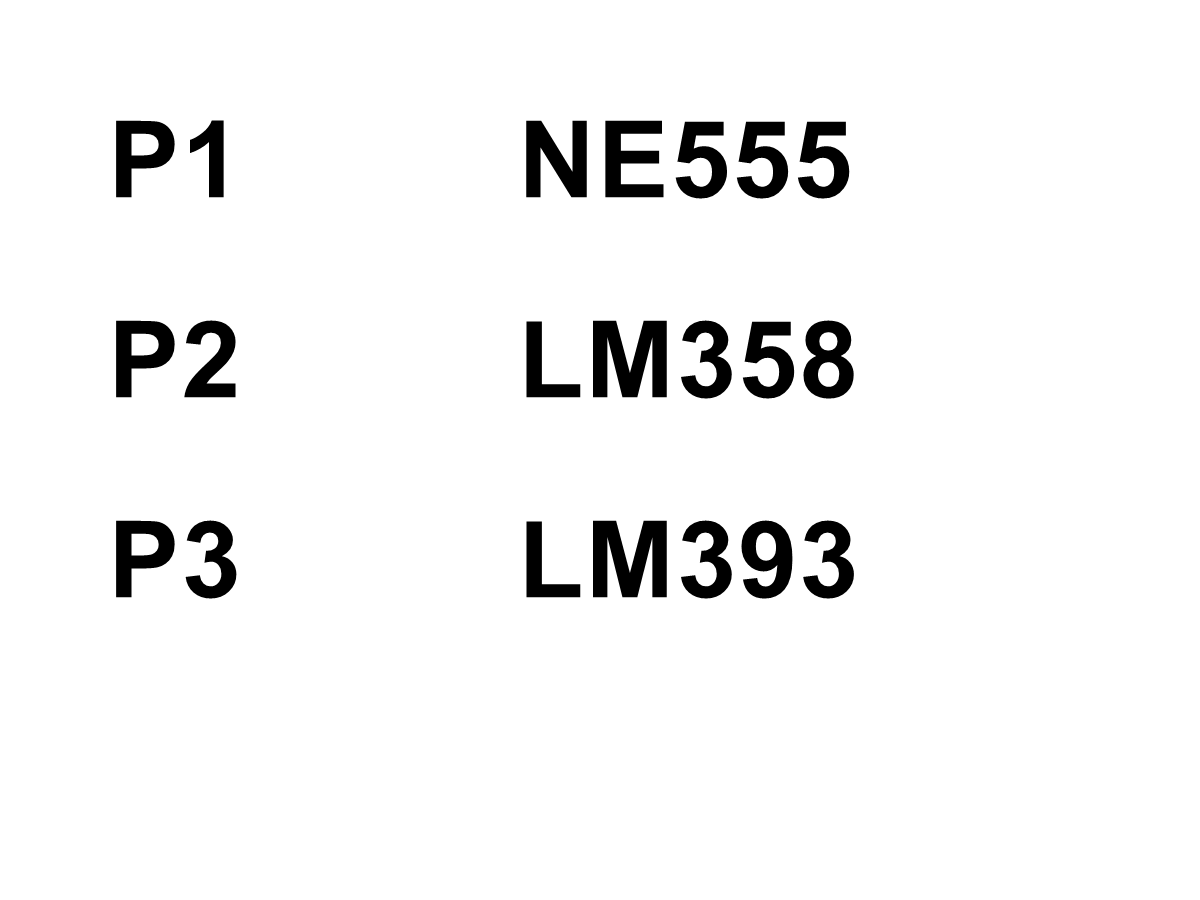
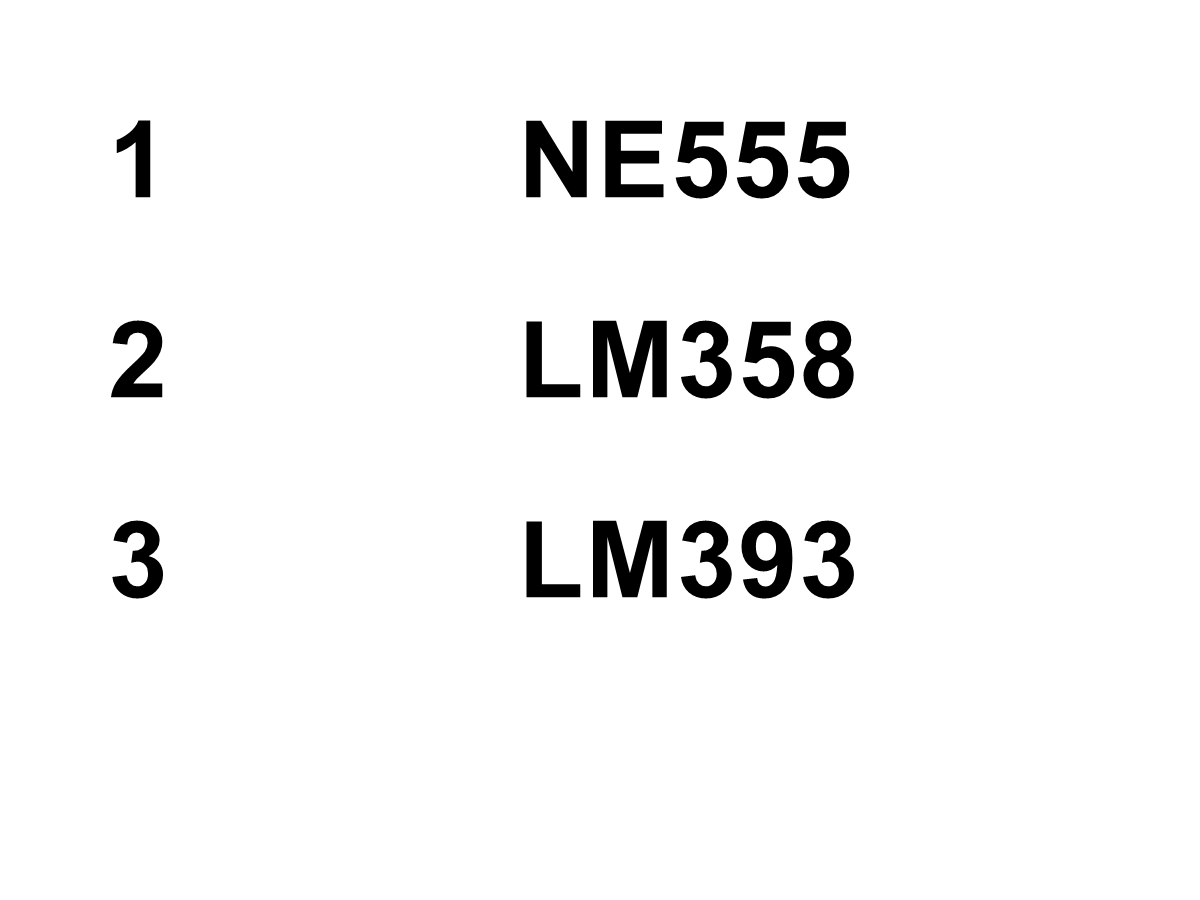
fix: parser rejected the team's real BOM position format (bare digits, not P1)
Root cause of "even the written text for the blueprint fails": found
Breadboard_Bill_of_Materials.pdf in the user's own files -- the actual
verified spec document for BB-01 Assembly A. Its POSITION column uses bare
digits (1, 2, 3, 4), not "P1" style. parser.dart's _positionPattern was
^P\d+$, so it rejected every row of the real document regardless of photo
quality, lighting, or crop -- this was never an OCR/image problem.

Fix: _positionPattern is now ^P?\d+$ (P optional), purely additive -- every
existing "P1"-style test still passes. New tests replay the BOM's exact
table structure (position/component/description columns) through
parseBlocks(), confirming bare digits parse and the description column is
correctly ignored as noise rather than merged into the component.

Also: the AI-generated "realistic" breadboard photo shows NE555P/LM358P/
LM393N chips, but the real BOM's position 2 calls for a 7805 voltage
regulator -- a 3-pin TO-220 part, nothing like these 8-pin DIP chips.
Relabelling that photo "7805" would visually contradict itself. Kept that
demo set honest (its own real part numbers, documented as illustrative, not
the official BOM) and regenerated the primary demo_spec_A /
demo_assembly_A_match / demo_assembly_B_tampered set to exactly match the
real BOM's positions and components, with the tamper scenario now using the
BOM's actual spare slot (position 4) for the "unexpected" case.

Fixed the on-device capture-screen hint text, which only showed a "P1:
[…]

Changed region(s): [[0.0925, 0.3422, 0.2158, 0.4667], [0.0925, 0.56, 0.2158, 0.6844], [0.0925, 0.1244, 0.185, 0.2178]]

diff --git a/test/parser_test.dart b/test/parser_test.dart
@@ -217,4 +217,78 @@ void main() {
       }
     });
   });
+
+  group('bare-digit positions (the team\'s actual verified BOM format)', () {
+    // Breadboard_Bill_of_Materials.pdf's POSITION column reads "1", "2", "3",
+    // "4" -- not "P1" style. The parser used to reject every one of these,
+    // regardless of photo quality, sending the whole document to
+    // unparsedRows. This is that exact document's text, replayed as OCR
+    // blocks would deliver it: position, component, then a third
+    // DESCRIPTION-column block that must be ignored, not appended.
+    test('a bare digit is accepted as a position', () {
+      final result = parseBlocks([
+        block('1', 60, 100),
+        block('NE555', 200, 100),
+      ]);
+      expect(result.items.single.position, '1');
+      expect(result.unparsedRows, isEmpty);
+    });
+
+    test(
+      'the real BOM table parses correctly, including the DESCRIPTION column as noise',
+      () {
+        final result = parseBlocks([
+          block('1', 60, 100),
+          block('NE555', 200, 100),
+          block('Timer IC', 400, 100, width: 160),
+          block('2', 60, 260),
+          block('7805', 200, 260),
+          block('Voltage Regulator', 400, 260, width: 260),
+          block('3', 60, 420),
+          block('LM358', 200, 420),
+          block('Dual Op-Amp', 400, 420, width: 200),
+        ]);
+        expect(result.unparsedRows, isEmpty);
+        expect(
+          result.items.map((i) => '${i.position}:${i.component}').toList(),
+          ['1:NE555', '2:7805', '3:LM358'],
+        );
+        expect(result.ignoredNoise, [
+          'Timer IC',
+          'Voltage Regulator',
+          'Dual Op-Amp',
+        ]);
+      },
+    );
+
+    test(
+      '"P1" style still works -- the fix is additive, not a breaking change',
+      () {
+        final result = parseBlocks([
+          block('P1', 60, 100),
+          block('NE555', 200, 100),
+        ]);
+        expect(result.items.single.position, 'P1');
+      },
+    );
+
+    test(
+      'a bare-digit spec matches a bare-digit assembly reading the same board',
+      () {
+        final spec = parseBlocks([
+          block('1', 60, 100),
+          block('NE555', 200, 100),
+          block('2', 60, 260),
+          block('7805', 200, 260),
+        ]).items;
+        final assembly = parseBlocks([
+          block('1', 60, 100),
+          block('NE555', 200, 100),
+          block('2', 60, 260),
+          block('7805', 200, 260),
+        ]).items;
+        expect(compare(spec, assembly).isMatch, isTrue);
+      },
+    );
+  });
 }

diff --git a/lib/logic/parser.dart b/lib/logic/parser.dart
@@ -9,8 +9,13 @@ import 'ocr.dart';
 ///
 /// Pure and deterministic — no model, no network, no I/O.
 
-/// A position label the parser accepts, e.g. "P1" or "P12".
-final RegExp _positionPattern = RegExp(r'^P\d+$');
+/// A position label the parser accepts: an optional "P" prefix, then digits.
+/// Matches both "P1" (PRD section 17's example) and a bare "1" — the team's
+/// actual verified Bill of Materials (Breadboard_Bill_of_Materials.pdf) uses
+/// bare numbers in its POSITION column, not "P1" style, and the parser used
+/// to reject every one of them, sending the whole document to unparsedRows
+/// regardless of photo quality or crop.
+final RegExp _positionPattern = RegExp(r'^P?\d+$');
 
 /// Trailing punctuation OCR commonly appends to a label, e.g. "P1:" or "P1.".
 final RegExp _trailingPunctuation = RegExp(r'[:.,;\-–—]+$');

diff --git a/lib/screens/capture_screen.dart b/lib/screens/capture_screen.dart
@@ -221,7 +221,7 @@ class _CaptureScreenState extends State<CaptureScreen> {
                   _stage == _Stage.cropping
                       ? 'Trim the frame to just the labels, then scan'
                       : (isSpec
-                            ? 'Position labels clearly in frame (e.g. P1: NE555)'
+                            ? 'Position labels clearly in frame (e.g. "1  NE555" or "P1: NE555")'
                             : 'Ensure all components are visible'),
                   style: const TextStyle(fontSize: 12, color: Colors.grey),
                   textAlign: TextAlign.center,

diff --git a/demo_assets/README.md b/demo_assets/README.md
@@ -3,22 +3,33 @@
 **Do not download a random image off Google for this.** A web photo of a
 breadboard carries a watermark, an arbitrary font, JPEG compression noise, and
 someone else's lighting — every one of those hurts OCR consistency, and you'd
-be rehearsing against an input you can't reproduce twice. These three PNGs are
-generated locally with a known, exact correct answer, so you can rehearse the
-same result over and over and trust it on stage.
+be rehearsing against an input you can't reproduce twice. These are generated
+locally with a known, exact correct answer, so you can rehearse the same
+result over and over and trust it on stage.
+
+## Position format — read this first
+
+The parser accepts **both** `P1` style and a **bare digit** like `1`. Your
+actual verified spec document, `Breadboard_Bill_of_Materials.pdf`, uses bare
+digits in its POSITION column (`1`, `2`, `3`, `4`) — not `P1`. The parser used
+to reject every bare-digit label, which is why OCR failed even on printed,
+perfectly legible text: it wasn't a photo-quality problem, the position format
+just didn't match what the code expected. Fixed in `lib/logic/parser.dart`
+and pinned down in `test/parser_test.dart`'s "bare-digit positions" group and
+`test/demo_realistic_scenario_test.dart`.
 
 ## What's here
 
 | File | Use as | Content |
 |---|---|---|
-| `demo_spec_A.png` | Specification | P1 NE555, P2 7805, P3 LM358, P4 CD4017 |
+| `demo_spec_A.png` | Specification | **Matches the real BOM exactly**: 1 NE555, 2 7805, 3 LM358 |
 | `demo_assembly_A_match.png` | Assembly (clean run) | identical to spec — proves the MATCH state |
-| `demo_assembly_B_tampered.png` | Assembly (tamper run) | P2 swapped, P3 removed, P5 added |
-| `demo_spec_realistic.png` | Specification | P1 NE555, P2 LM358, P3 LM393 |
-| `demo_assembly_realistic_match.png` | Assembly (clean run) | a real-looking AI-generated breadboard photo + a P1/P2/P3 label panel underneath — proves MATCH with a photo that actually looks like hardware |
-| `demo_assembly_realistic_tampered.png` | Assembly (tamper run) | same photo, P2 mismatched, P3 row omitted |
+| `demo_assembly_B_tampered.png` | Assembly (tamper run) | 2 mismatched, 3 removed, 4 (the BOM's real spare slot) populated without authorisation |
+| `demo_spec_realistic.png` | Specification | 1 NE555, 2 LM358, 3 LM393 — **illustrative only, see note below** |
+| `demo_assembly_realistic_match.png` | Assembly (clean run) | a real-looking AI-generated breadboard photo + a label panel underneath |
+| `demo_assembly_realistic_tampered.png` | Assembly (tamper run) | same photo, 2 mismatched, 3 row omitted |
 
-Regenerate the A/B set with:
+Regenerate the A/B set (the BOM-accurate one) with:
 ```powershell
 powershell -File demo_assets\generate_demo_screens.ps1
 ```
@@ -28,21 +39,32 @@ the script) with:
 powershell -File demo_assets\overlay_labels_on_breadboard.ps1
 ```
 
+### Important: the "realistic" photo set is NOT the official BOM
+
+The AI-generated breadboard photo shows three chips etched `NE555P`,
+`LM358P`, `LM393N`. Your real BOM's position 2 calls for a **7805 voltage
+regulator** — a 3-pin TO-220 part that looks nothing like these 8-pin DIP
+chips. Labelling that photo "7805" would show text contradicting the picture
+under it to anyone who looks closely, including a judge who knows
+electronics. So the realistic set uses the chips' own real part numbers
+instead, as a "looks like real hardware" rehearsal aid — use **`demo_spec_A`
++ `demo_assembly_A_match`/`_B_tampered`** whenever you need the demo to match
+`Breadboard_Bill_of_Materials.pdf` precisely, which is most of the time.
+
 ### Why the realistic set has a label panel glued below the photo
 
-A user-supplied AI-generated breadboard photo looked great but had **zero
-position labels anywhere** — only each chip's own tiny etched part code
-(`NE555P` / `93M` / `DN1810`, three lines per chip). That reproduced the exact
-"no valid labels found" error, and no amount of cropping could fix it, because
-there was nothing in the frame matching the `P1`/`P2`/`P3` pattern the parser
-requires. Confirmed with `test/demo_realistic_scenario_test.dart`, which
-replays the original photo's actual OCR text through `parseBlocks()` and
-asserts it parses to nothing.
+The original AI photo had **zero position labels anywhere** — only each
+chip's tiny etched part code (`NE555P` / `93M` / `DN1810`, three lines per
+chip). That reproduced the exact "no valid labels found" error, and no amount
+of cropping could fix it, because there was nothing in the frame matching a
+position pattern. Confirmed with `test/demo_realistic_scenario_test.dart`,
+which replays the original photo's actual OCR text through `parseBlocks()`
+and asserts it parses to nothing.
 
 The fix is a clean white label panel appended **below** the photo (not
-overlaid on top of it) with P1/P2/P3 stacked vertically, generous gaps between
-rows, and a wide column gap — the same layout already proven to work in
-`demo_spec_A.png`. (A first attempt placed labels in one horizontal strip
+overlaid on top of it) with positions stacked vertically, generous gaps
+between rows, and a wide column gap — the same layout already proven to work
+in `demo_spec_A.png`. (A first attempt placed labels in one horizontal strip
 across the photo; that risked ML Kit merging all three into one unparseable
 block, since same-row + touching boxes look like one label to OCR. Fixed by
 stacking rows instead.) Also verified in the same test file.
@@ -61,7 +83,7 @@ stacking rows instead.) Also verified in the same test file.
    image, cutting out everything outside it — this also cuts out any screen
    bezel, reflection, or desk visible around the edges. Tap **Scan Selected
    Area**.
-4. Confirm the status line reads "4 text blocks read, 4 row(s) parsed" (or
+4. Confirm the status line reads "3 text blocks read, 3 row(s) parsed" (or
    close — if a row lands in "unparsed", the review screen will show you
    which one, and you can add it manually in two taps).
 5. Tap **Next**, then swap the laptop display to `demo_assembly_A_match.png`
@@ -82,12 +104,12 @@ Expected results, so you know a run went correctly before you're on stage:
 - **Scenario A** (`demo_spec_A` + `demo_assembly_A_match`): **MATCH**, zero
   discrepancies.
 - **Scenario B** (`demo_spec_A` + `demo_assembly_B_tampered`): **3
-  discrepancies** — P2 mismatched (7805 → LM358), P3 missing (LM358), P5
-  unexpected (NE555).
+  discrepancies** — 2 mismatched (7805 → LM358), 3 missing (LM358), 4
+  unexpected (NE555) — a real part turning up in the BOM's real spare slot.
 - **Realistic match** (`demo_spec_realistic` + `demo_assembly_realistic_match`):
   **MATCH**, zero discrepancies.
 - **Realistic tampered** (`demo_spec_realistic` + `demo_assembly_realistic_tampered`):
-  **2 discrepancies** — P2 mismatched (LM358 → NE555), P3 missing (LM393).
+  **2 discrepancies** — 2 mismatched (LM358 → NE555), 3 missing (LM393).
 
 ## Why a laptop screen instead of a printout
 
@@ -100,17 +122,23 @@ screen rather than off to one side.
 If you'd rather have a physical fallback in case the laptop isn't available
 at the pitch table, print the same PNGs at full size (they're already
 1920×1080 — print landscape, fit to page) instead of hand-writing labels;
-that reproduces the same font size and layout on paper.
+that reproduces the same font size and layout on paper. This also means you
+could print `Breadboard_Bill_of_Materials.pdf` itself and photograph that
+directly as the specification — it's already the right shape (position,
+component, description columns) and the parser now reads its bare-digit
+positions correctly.
 
 ## The real assembly demo
 
 These label sheets are a *rehearsal and fallback* tool — they prove the OCR →
 parser → compare → phrase pipeline is solid under controlled input, which is
-what "it gives random values sometimes" was actually about (see the analysis
-in `PROGRESS.md` / chat history: it was two code bugs, not the OCR model).
+what "it gives random/wrong values sometimes" was actually about (see
+`PROGRESS.md`: it was code bugs — a noise-appending bug, then a position
+format mismatch with your own BOM — never the OCR model).
 
 For the live judge-tampers-the-board moment from PRD section 10, print small
-physical label cards in this same style (bold, black on white, ≥1cm tall) and
-tape one at each breadboard position instead of relying on the chip's own
-tiny factory print — that is what PRD section 19 specifies, and it's the
-difference between reliable and unreliable OCR on a real object.
+physical label cards in this same style (bold, black on white, ≥1cm tall,
+bare-digit position) and tape one at each breadboard position instead of
+relying on the chip's own tiny factory print — that is what PRD section 19
+specifies, and it's the difference between reliable and unreliable OCR on a
+real object.

diff --git a/PROGRESS.md b/PROGRESS.md
@@ -597,3 +597,52 @@ with the realistic-set instructions and expected results.
 parser logic with the actual generated coordinates, which is strong evidence,
 but nobody has photographed either the label-panel demo image or a real
 object with the app on the iQOO yet. That remains the top open item.
+
+## Session 5 — the real bug: position format mismatch with the actual BOM
+
+User reported OCR still failing "even on the written text for the blueprint"
+after Session 4's crop/label fixes. Found `Breadboard_Bill_of_Materials.pdf`
+in the user's Downloads — the team's actual verified spec document (BB-01,
+Assembly A). Its POSITION column reads bare digits: `1`, `2`, `3`, `4` — NOT
+`P1` style. `lib/logic/parser.dart`'s `_positionPattern` was `^P\d+$`,
+rejecting every single row of the real document regardless of photo quality,
+lighting, or crop. This is the actual root cause "even written text fails."
+
+**Fix:** `_positionPattern` changed to `^P?\d+$` — the `P` is now optional.
+Purely additive: every existing "P1"-style test still passes. Verified with
+new tests replaying the BOM's exact table structure (position, component,
+description columns) through `parseBlocks()`, confirming the description
+column is correctly treated as ignored noise (Session 3's fix) rather than
+merged into the component.
+
+**Also found and fixed:** the AI-generated "realistic" breadboard photo from
+Session 4 shows chips etched NE555P/LM358P/LM393N, but the real BOM's
+position 2 calls for a 7805 voltage regulator (a 3-pin TO-220 part, nothing
+like these 8-pin DIP chips). Relabelling the photo "7805" would visually
+contradict itself to anyone who looks closely. Fixed by keeping that demo set
+honest (uses the chips' own real part numbers, documented as "illustrative,
+not the official BOM") and regenerating the primary `demo_spec_A` /
+`demo_assembly_A_match` / `demo_assembly_B_tampered` set to exactly match
+`Breadboard_Bill_of_Materials.pdf`'s real positions (bare digits) and real
+components (NE555, 7805, LM358), with the tamper scenario now putting an
+unauthorised part in the BOM's actual spare slot (position 4) rather than an
+invented position 5.
+
+Also fixed the on-device hint text in `capture_screen.dart` that only showed
+a "P1: NE555" example, which didn't reflect the team's real format.
+
+Check run: `flutter analyze` — 0 issues. `flutter test` — **51/51 passing**
+(47 previous + 4 new in the "bare-digit positions" group).
+
+Files touched: `lib/logic/parser.dart`, `lib/screens/capture_screen.dart`,
+`test/parser_test.dart`, `demo_assets/generate_demo_screens.ps1`,
+`demo_assets/overlay_labels_on_breadboard.ps1`, all demo PNGs regenerated,
+`demo_assets/README.md`.
+
+**Verified on-device this session:** built fresh debug APK, installed on a
+second phone (Realme RMX3031, Android 13/API 33 — not the iQOO), launched
+twice cleanly with zero fatal exceptions, screenshotted the real Home/Capture
+UI running. adb dropped the USB connection partway through re-verification
+(known flaky-cable/daemon issue, not an app issue) — a full real-camera
+end-to-end run against the corrected demo images is still the next concrete
+step once reconnected.
